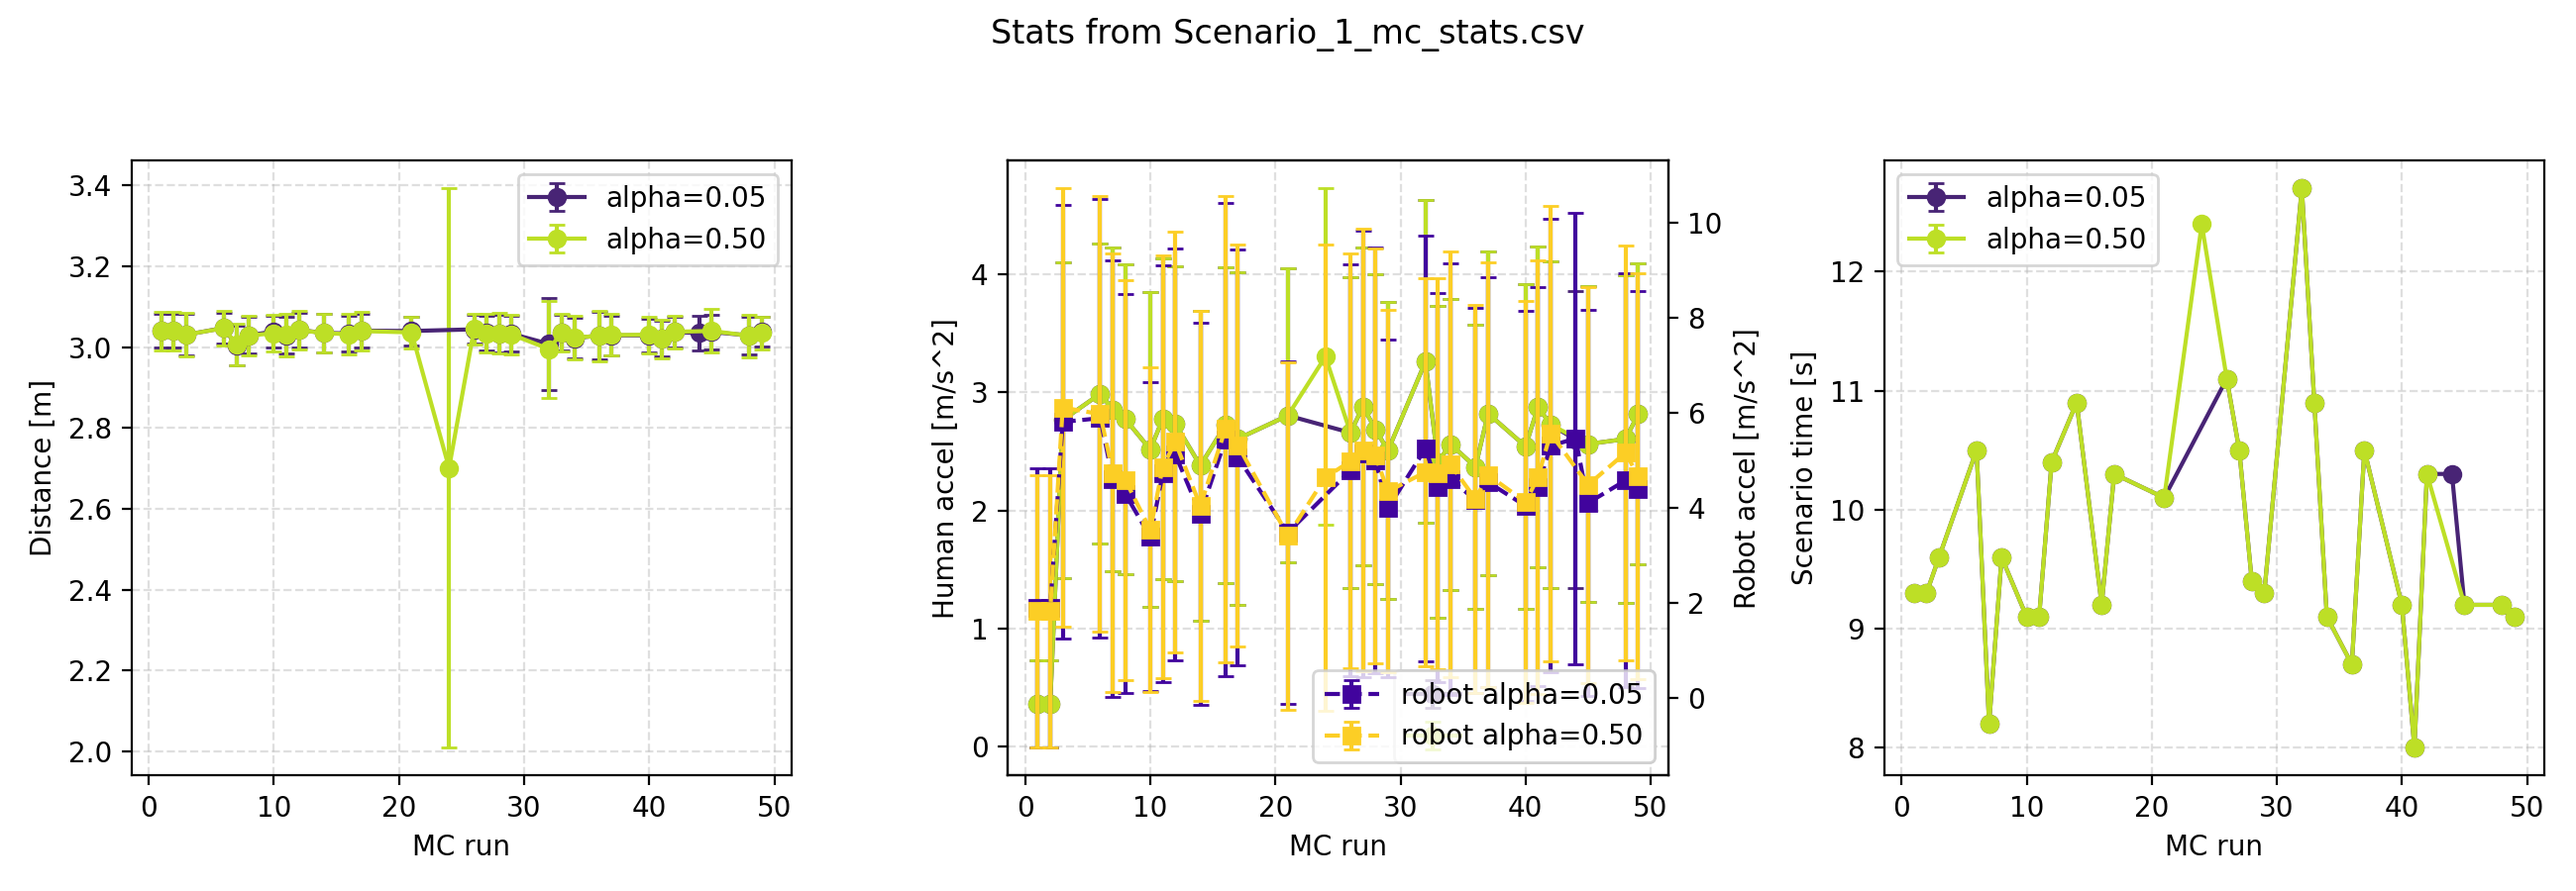
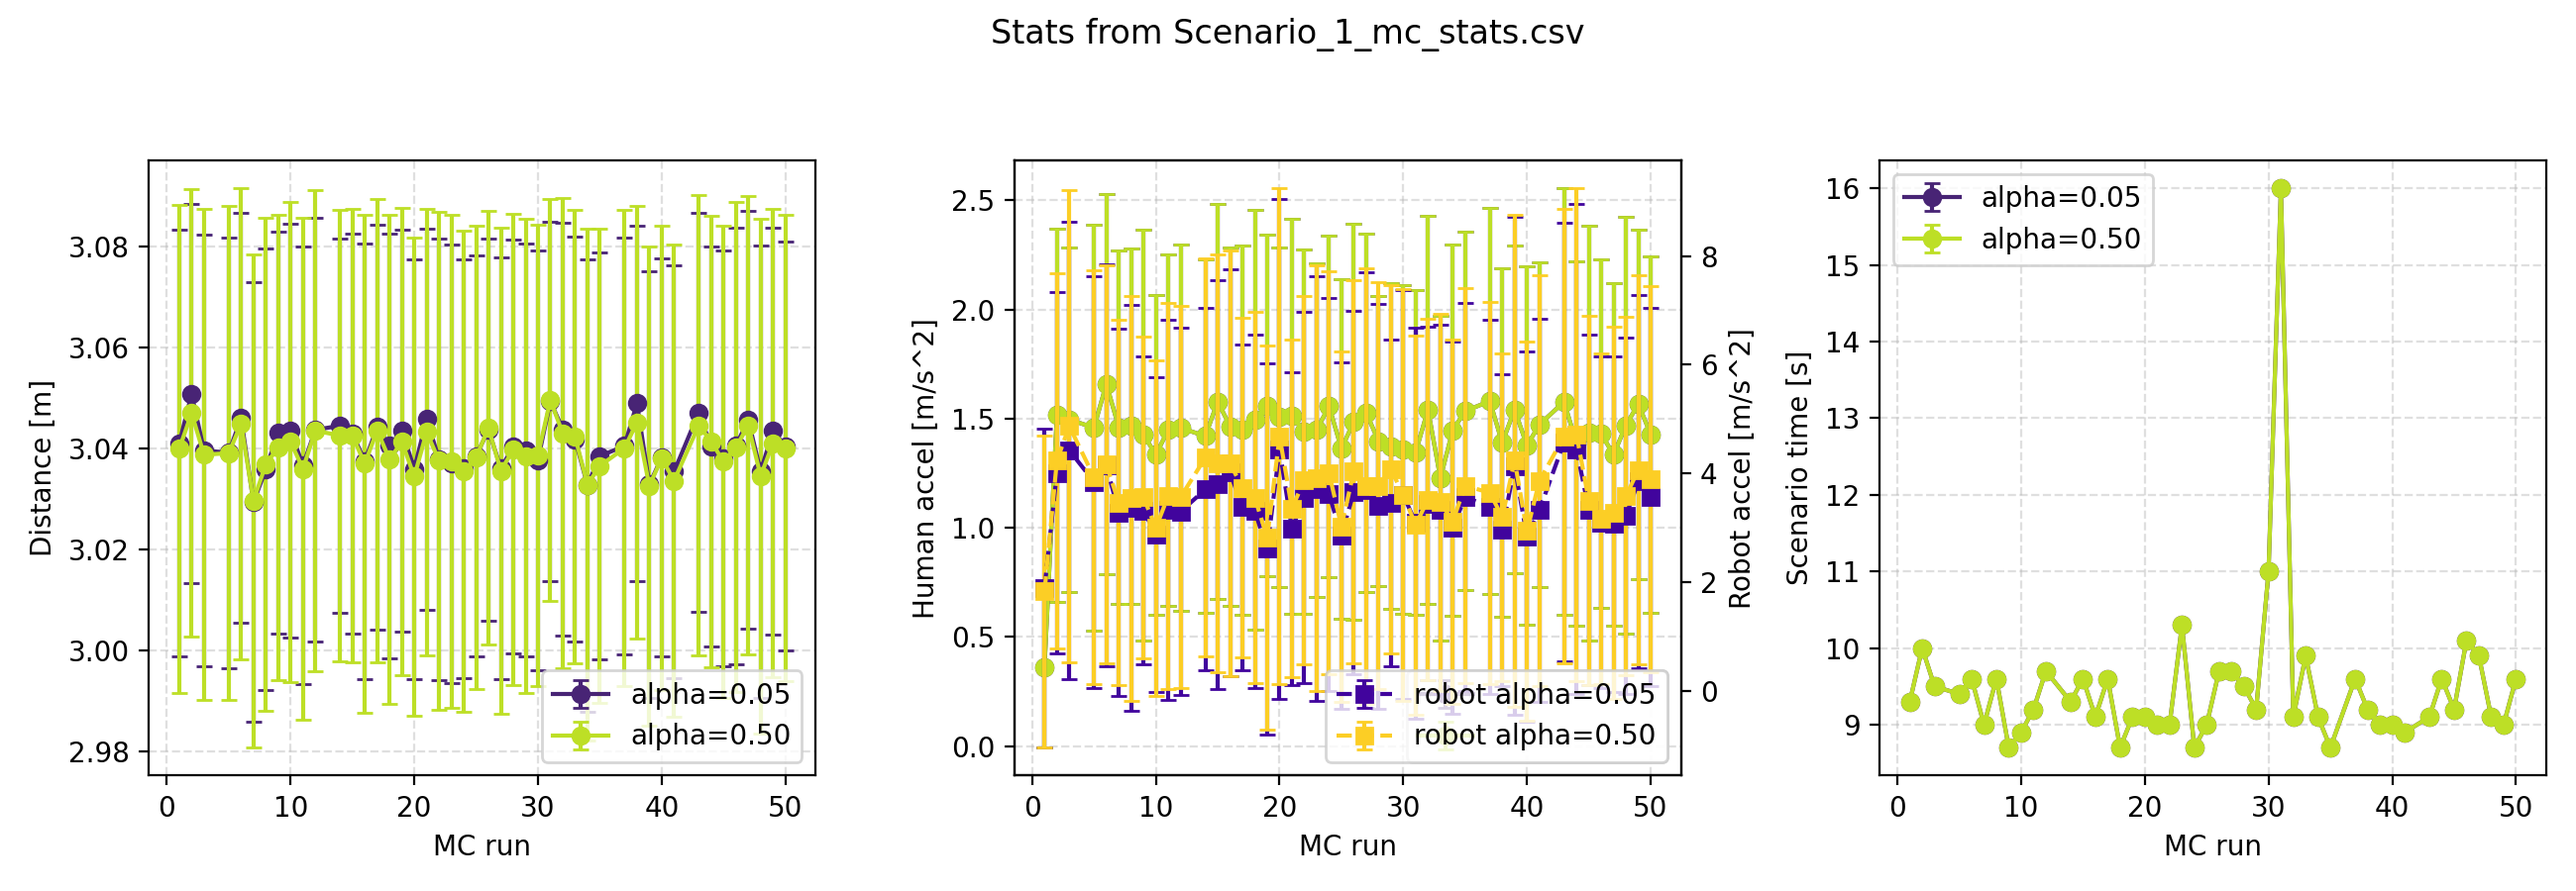
update

diff --git a/CollaborativeGame_save.py b/CollaborativeGame_save.py
@@ -438,6 +438,8 @@ def run_single_mc(Scenario: Scenario, alpha: float, n_mc: int, enable_plot: bool
     if infeasible_run:
         dist_mean = -1.0
         dist_std = -1.0
+        dist_min = -1.0
+        dist_max = -1.0
         a1_mean = -1.0
         a1_std = -1.0
         a2_mean = -1.0
@@ -446,6 +448,8 @@ def run_single_mc(Scenario: Scenario, alpha: float, n_mc: int, enable_plot: bool
     else:
         dist_mean = dist_series.mean()
         dist_std = dist_series.std()
+        dist_min = dist_series.min()
+        dist_max = dist_series.max()
         a1_mean = a1_mag.mean()
         a1_std = a1_mag.std()
         a2_mean = a2_mag.mean()
@@ -457,6 +461,8 @@ def run_single_mc(Scenario: Scenario, alpha: float, n_mc: int, enable_plot: bool
             n_mc + 1,
             dist_mean,
             dist_std,
+            dist_min,
+            dist_max,
             a1_mean,
             a1_std,
             a2_mean,
@@ -511,6 +517,8 @@ def run_scenario(Scenario: Scenario):
                 "mc_run",
                 "distance_mean",
                 "distance_std",
+                "distance_min",
+                "distance_max",
                 "a1_acc_mean",
                 "a1_acc_std",
                 "a2_acc_mean",
